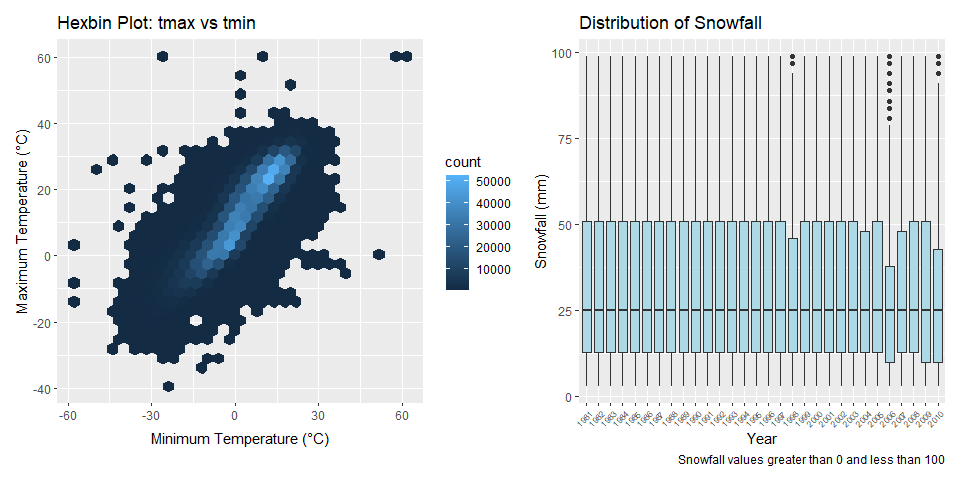
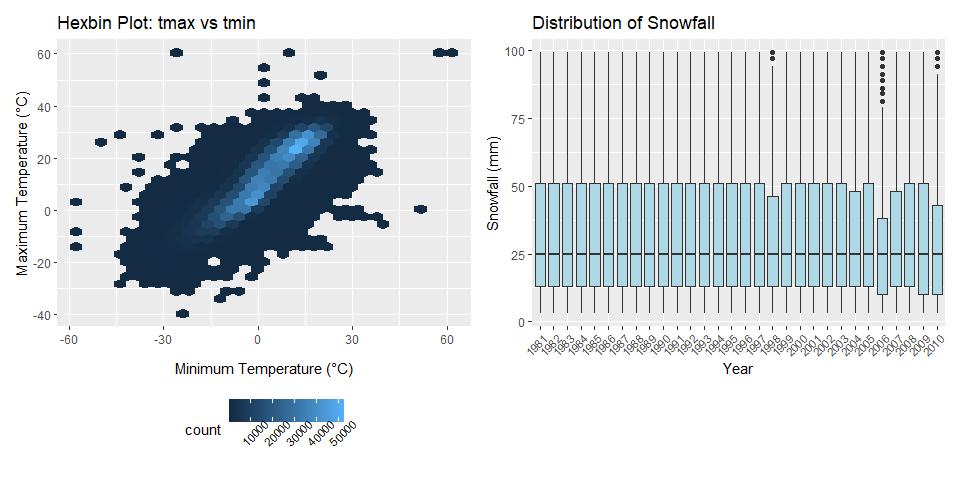
adjust the tmax tmin + snowfall plot

diff --git a/p8105_hw3_jz3902.md b/p8105_hw3_jz3902.md
@@ -163,7 +163,10 @@ ggp_tmax_tmin =
   labs(
     title = "Hexbin Plot: tmax vs tmin",
     x = "Minimum Temperature (°C)",
-    y = "Maximum Temperature (°C)")
+    y = "Maximum Temperature (°C)") +
+  theme(legend.position = "bottom",
+        legend.text = element_text(size = 8, angle = 45))
+  
 
 ggp_snowfall = 
   ny_noaa_clean %>% 
@@ -173,9 +176,8 @@ ggp_snowfall =
   geom_boxplot(fill = "lightblue") +
   labs(title = "Distribution of Snowfall",
        x = "Year",
-       y = "Snowfall (mm)",
-       caption = "Snowfall values greater than 0 and less than 100") +
-  theme(axis.text.x = element_text(size = 6,
+       y = "Snowfall (mm)") +
+  theme(axis.text.x = element_text(size = 8,
                                    angle = 45, 
                                    hjust = 1))
 
